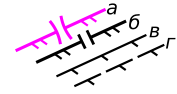
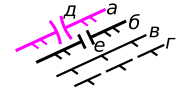
up

Changed region(s): [[0.339, 0.0426, 0.452, 0.2128], [0.5085, 0.4255, 0.5932, 0.5532]]

diff --git a/pages/symbols.md b/pages/symbols.md
@@ -56,7 +56,7 @@ _Обновлено в 2025 году._
 |![]({{ "assets/img/uz/m2.png" | relative_url }})| -&nbsp;дорога с твёрдым покрытием (гравийная и др.) (а)<br/>-&nbsp;грунтовая дорога (б)<br/>-&nbsp;дорожка, широкая тропа (в)<br/>-&nbsp;медленная дорога, проезд на велосипеде может быть затруднён (г) |
 |![]({{ "assets/img/uz/m3.png" | relative_url }})| -&nbsp;тропинка (а)<br/>-&nbsp;нечёткая дорожка или тропинка (б)<br/>-&nbsp;узкая просека без тропы, старая противопожарная пропашка (в)<br/>-&nbsp;просека или пропашка, удобная для передвижения (г) |
 |![]({{ "assets/img/uz/m4.png" | relative_url }})| -&nbsp;железная дорога (а)<br/>-&nbsp;высоковольтная линия электропередач (поперечные штрихи в месте опор) (б)<br/>-&nbsp;местная линия электропередач (поперечные штрихи в месте опор) (в)<br/>-&nbsp;непреодолимый наземный трубопровод (г)<br/>-&nbsp;преодолимый наземный трубопровод (д) |
-|![]({{ "assets/img/uz/m5.png" | relative_url }})| -&nbsp;непреодолимая ограда (а или б) с проходом<br/>-&nbsp;невысокая ограда (в)<br/>-&nbsp;полуразрушенная ограда (г) |
+|![]({{ "assets/img/uz/m5.png" | relative_url }})| -&nbsp;непреодолимая ограда (а или б)<br/>-&nbsp;невысокая ограда (в)<br/>-&nbsp;полуразрушенная ограда (г)<br/>-&nbsp;проход (д или е) |
 |![]({{ "assets/img/uz/m6.png" | relative_url }})| -&nbsp;непреодолимая стена (а)<br/>-&nbsp;преодолимая стена (б)<br/>-&nbsp;полуразрушенная стена (в) |
 |![]({{ "assets/img/uz/m7.png" | relative_url }})| -&nbsp;застроенная территория, частные владения (запрещено для пересечения) |
 |![]({{ "assets/img/uz/m8.png" | relative_url }})| -&nbsp;здание (а или б)<br/>-&nbsp;навес (в)<br/>-&nbsp;развалины, фундамент (г)|
